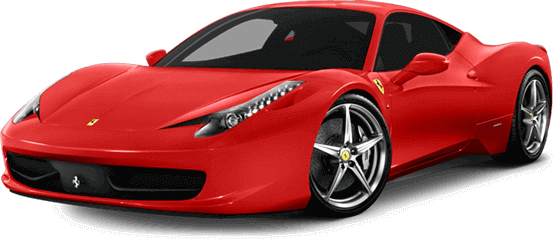
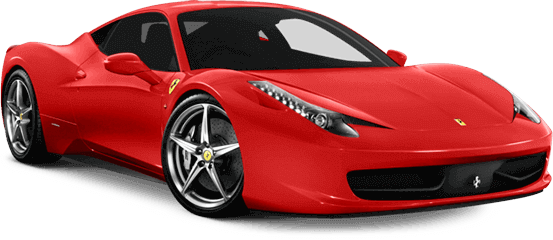
Our Car section

diff --git a/index.html b/index.html
@@ -38,11 +38,8 @@
           <!--? HEADING AND PAGINATION-->
           <div class="page-entry container">
             <div class="heading-box">
-              <h1 class="heading-primary">Welcome<br>
-                to our<br>
-                car <br>
-                showroom</h1>
-              <a href="#" class="btn">Book now</a>
+              <h1 class="heading-primary">Welcome<br> to our <br> car showroom</h1>
+              <a href="#" class="btn heading-btn">Book&nbsp;now</a>
             </div>
             <div class="pagination-box">
               <div class="pagination">
@@ -64,7 +61,7 @@
       </div>
     </section>
     <section class="section-find">
-      <div class="find-car">
+      <div class="find-car container">
         <h3 class="heading-find">Find your car</h3>
         <form action="" class="find-form  grid grid--3-col">
           <div>
@@ -91,6 +88,47 @@
           <button class="btn btn-search">Search</button>
         </form>
       </div>
+
+      <div class="our-cars container ">
+        <h2 class="heading-secondary">Our Cars</h2>
+        <div class="cars grid grid--2-col">
+          <div class="car">
+            <div>
+              <img src="img/cars/car-1.png" alt="Red toyota camry model car" class="car-img">
+            </div>
+            <ul class="car-list">
+              <li class="car-item"><a href="#" class="btn car-btn">Book&nbsp;now</a></li>
+              <li class="car-item">Carmy</li>
+              <li class="car-item"><span>$</span>3000.00</li>
+            </ul>
+          </div>
+          <div class="car">
+            <img src="img/cars/car-2.png" alt="Red bmw i8 model car" class="car-img">
+            <ul class="car-list">
+              <li class="car-item"><a href="#" class="btn car-btn">Book&nbsp;now</a></li>
+              <li class="car-item">BMW</li>
+              <li class="car-item"><span>$</span>4000.00</li>
+            </ul>
+          </div>
+          <div class="car">
+            <img src="img/cars/car-3.png" alt="Red ferrari nock model car" class="car-img">
+            <ul class="car-list">
+              <li class="car-item"><a href="#" class="btn car-btn">Book&nbsp;now</a></li>
+              <li class="car-item">NOCK</li>
+              <li class="car-item"><span>$</span>6000.00</li>
+            </ul>
+          </div>
+          <div class="car">
+            <img src="img/cars/car-4.png" alt="Red audi a3 model car" class="car-img">
+            <ul class="car-list">
+              <li class="car-item"><a href="#" class="btn car-btn">Book&nbsp;now</a></li>
+              <li class="car-item">Audi</li>
+              <li class="car-item"><span>$</span>5000.00</li>
+            </ul>
+          </div>
+        </div>
+      </div>
+      <div class="container center-v"><a href="#" class="btn btn-more">See More</a></div>
     </section>
   </main>
 

diff --git a/css/style.css b/css/style.css
@@ -81,23 +81,27 @@
 /*? PAGE ENTRY */
 
 .page-entry {
-  margin-top: 12.8rem;
+  margin-top: 9.6rem;
   display: grid;
   grid-template-columns: 1fr 1fr;
+  column-gap: 4.8rem;
 }
 
 /* heading-box  */
-.heading-box {
-  height: auto;
-  padding: 0 3.2rem;
-}
 
 .heading-primary {
   color: #fff;
+  text-transform: uppercase;
   letter-spacing: -0.75px;
   font-size: 8rem;
   line-height: 1.05;
   margin-bottom: 9.6rem;
+}
+
+.heading-btn {
+  font-size: 1.8rem;
+  padding: 2.4rem 8rem;
+
 }
 
 /* pagination-box */
@@ -179,8 +183,6 @@
 
 .find-car {
   background-color: #fff;
-  max-width: 110rem;
-  margin: 0 auto;
   padding: 3.2rem 6.4rem;
 }
 
@@ -214,4 +216,58 @@
   margin-top: 1.2rem;
   grid-column: -2/-1;
   justify-self: right;
+}
+
+/* our-cars */
+.our-cars {
+  padding: 9.6rem 0;
+}
+
+.cars {
+  gap: 6.4rem;
+}
+
+.car {
+  align-self: flex-end;
+}
+
+.car-img {
+  width: 100%;
+}
+
+.car-list {
+  list-style: none;
+  display: flex;
+  align-items: center;
+  justify-content: space-between;
+  gap: 3.2rem;
+}
+
+.car-item {
+  color: #333;
+  font-size: 3rem;
+  font-weight: 700;
+  text-transform: uppercase;
+}
+
+.car-item span {
+  color: #02dd1b;
+  font-weight: 700;
+}
+
+.car-btn {
+  display: block;
+  font-size: 1.2rem;
+  font-weight: 600;
+  padding: 1.2rem 2rem;
+}
+
+.btn-more:link,
+.btn-more:visited {
+  display: inline-block;
+  color: #fff;
+  font-size: 1.6rem;
+  text-transform: none;
+  padding: 1.2rem 4.8rem;
+  background-color: #272727;
 }

diff --git a/css/general.css b/css/general.css
@@ -30,7 +30,7 @@ html {
 /**************************/
 
 .container {
-  max-width: 120rem;
+  max-width: 110rem;
   margin: 0 auto;
 }
 
@@ -50,10 +50,12 @@ html {
   grid-template-columns: repeat(4, 1fr);
 }
 
-.heading-primary,
+
 .heading-secondary {
-  font-weight: 600;
-  text-transform: uppercase;
+  color: #000;
+  font-size: 5.2rem;
+  font-weight: 400;
+  margin-bottom: 6.4rem;
 }
 
 .btn {
@@ -61,21 +63,28 @@ html {
   background-color: #02dd1b;
   text-transform: uppercase;
   border: none;
+  text-decoration: none;
 }
 
 .btn:link,
 .btn:visited {
   color: #fff;
-  font-size: 1.8rem;
-  font-weight: 500;
   text-decoration: none;
   text-transform: uppercase;
   background-color: #02dd1b;
-  padding: 2.4rem 8rem;
   transition: all 0.3s;
 }
 
 .btn:hover,
 .btn:active {
   background-color: #35e449;
+}
+
+.center-v {
+  text-align: center;
+}
+
+/* ! TRICK */
+.margin-bottom-md {
+  margin-bottom: 4.8rem !important;
 }
